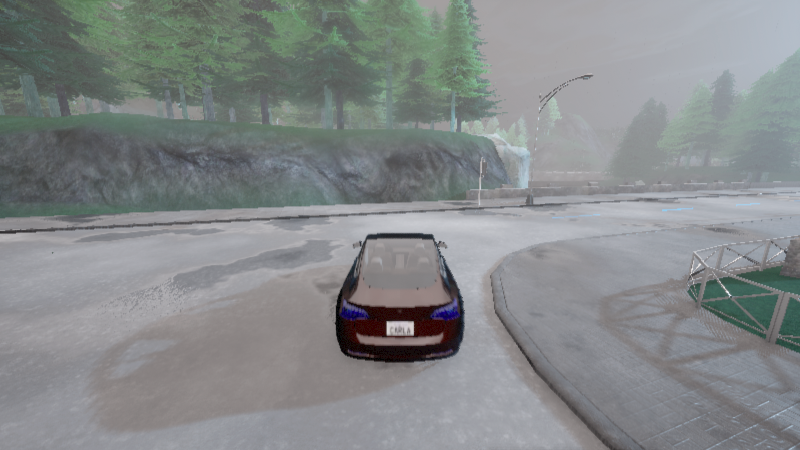
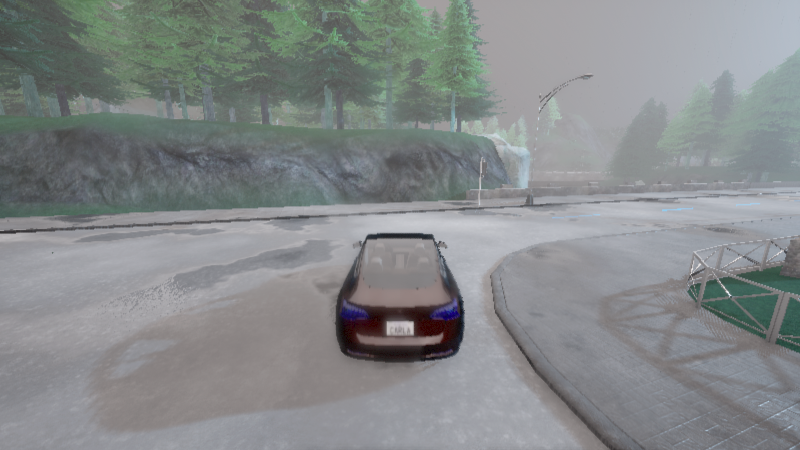
docs(ground): BSD 更新端到端实测数据与效果图
- 重跑 live 演示：事件链扩展为四事件全齐
  （left_warn→left_clear→right_warn→right_clear），更新 docs 时间线与指标表
- 新截图/曲线/CSV 入库（PNG 均 <3MB）

Changed region(s): [[0.4062, 0.6533, 0.5625, 0.8089], [0.5625, 0.6222, 0.5938, 0.6533]]

diff --git a/docs/ground/carla_bsd_blind_spot.md b/docs/ground/carla_bsd_blind_spot.md
@@ -229,17 +229,18 @@ Ubuntu 22.04 虚拟机（ROS 2 Humble）连宿主机 CARLA 0.9.16（offscreen）
 |---|---|---|---|
 | t=0~1.2s | — | 40 m（无目标） | 自车起步，左侧窗口干净（无植被假报警） |
 | t=1.45s | approach | 22.5 m | 邻车进入 25 m 探测纵深，提前预警 |
-| t=5.95s | **left_warn** | 8.5 m | 邻车穿越盲区窗口 |
-| t=6.4s | **left_clear** | — | 邻车超越通过，恢复 normal |
-| t=6.95s | **right_warn** | —（右 4.5 m） | 道路转弯段，同向邻车变为右侧逼近 |
+| t=5.85s | **left_warn** | 8.5 m | 邻车穿越盲区窗口 |
+| t=6.55s | **left_clear** | — | 邻车超越通过，恢复 normal |
+| t=6.6s | **right_warn** | —（右 4.5 m） | 道路转弯段，同向邻车变为右侧逼近 |
+| t=7.3s | **right_clear** | — | 邻车驶离右侧窗口，双侧恢复 normal |
 
 ### 6.3 指标汇总
 
 | 指标 | 离线演示 | CARLA 实测 |
 |---|---|---|
 | approach 预警 | 22.5 m @ 1.55s | 22.5 m @ 1.45s |
-| 盲区报警 | warn 34 拍（1.7s） | left_warn 0.55s → clear |
-| 恢复事件 | left_clear @ 4.65s | left_clear @ 6.4s |
+| 盲区报警 | warn 34 拍（1.7s） | left_warn 0.7s → clear |
+| 恢复事件 | left_clear @ 4.65s | left_clear @ 6.55s、right_clear @ 7.3s |
 | 交叉验证 | — | right_warn（转弯段右侧独立监测） |
 | 假报警 | 0（40 拍静止段干净） | 0（静止段与超越段均干净） |
 
